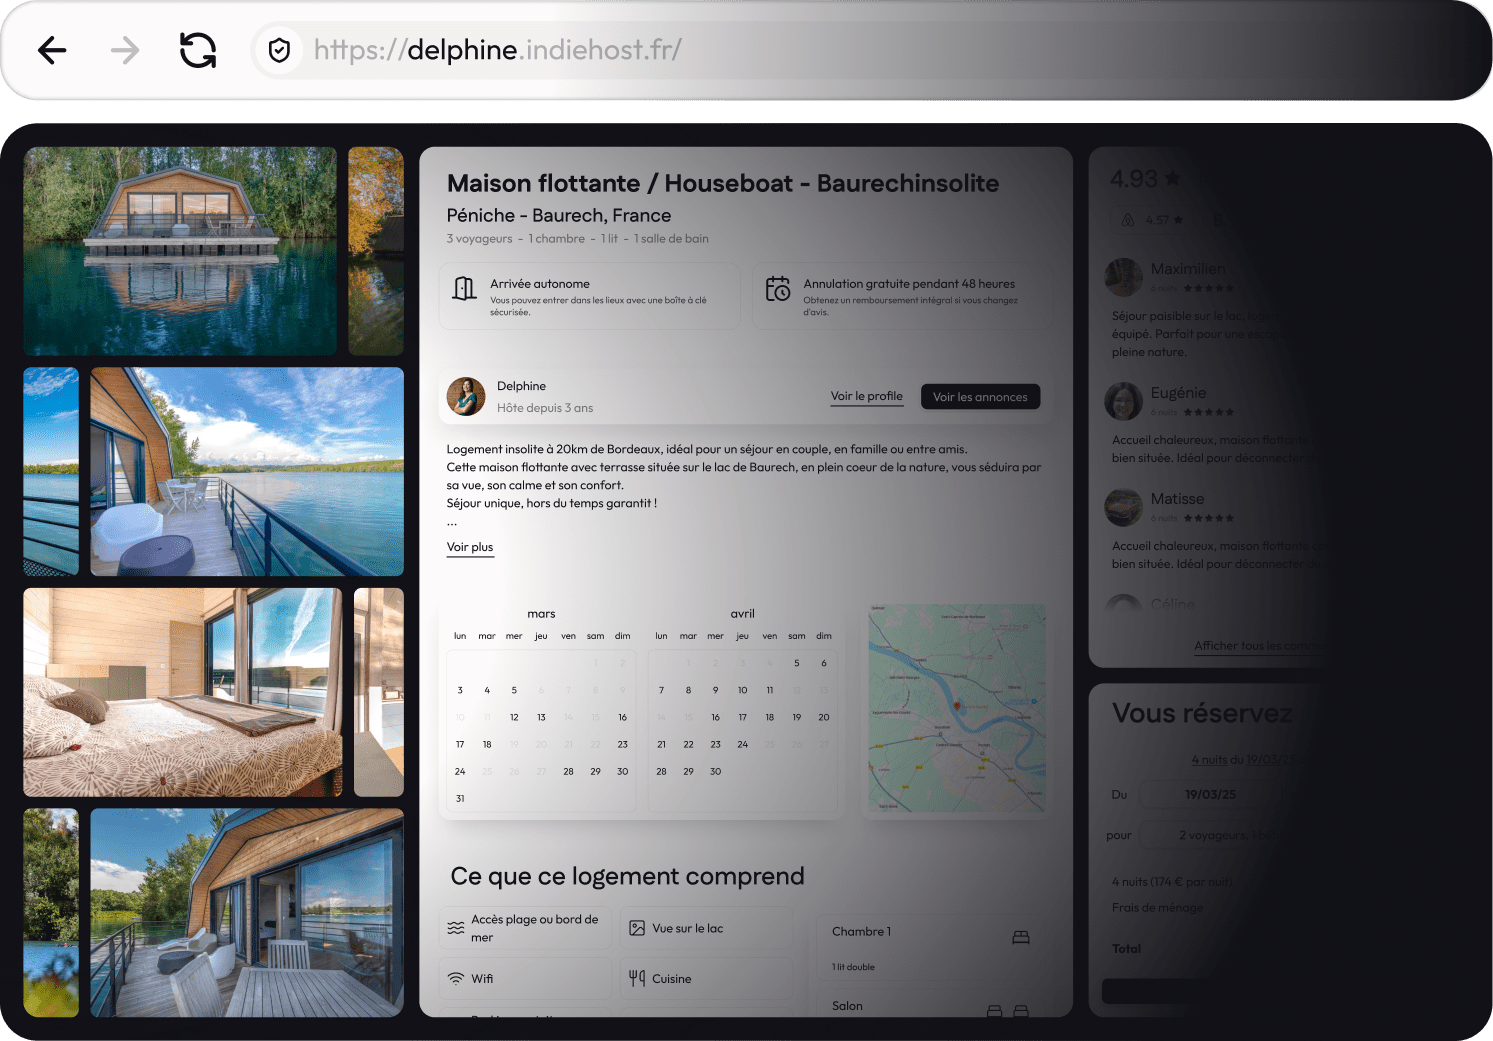
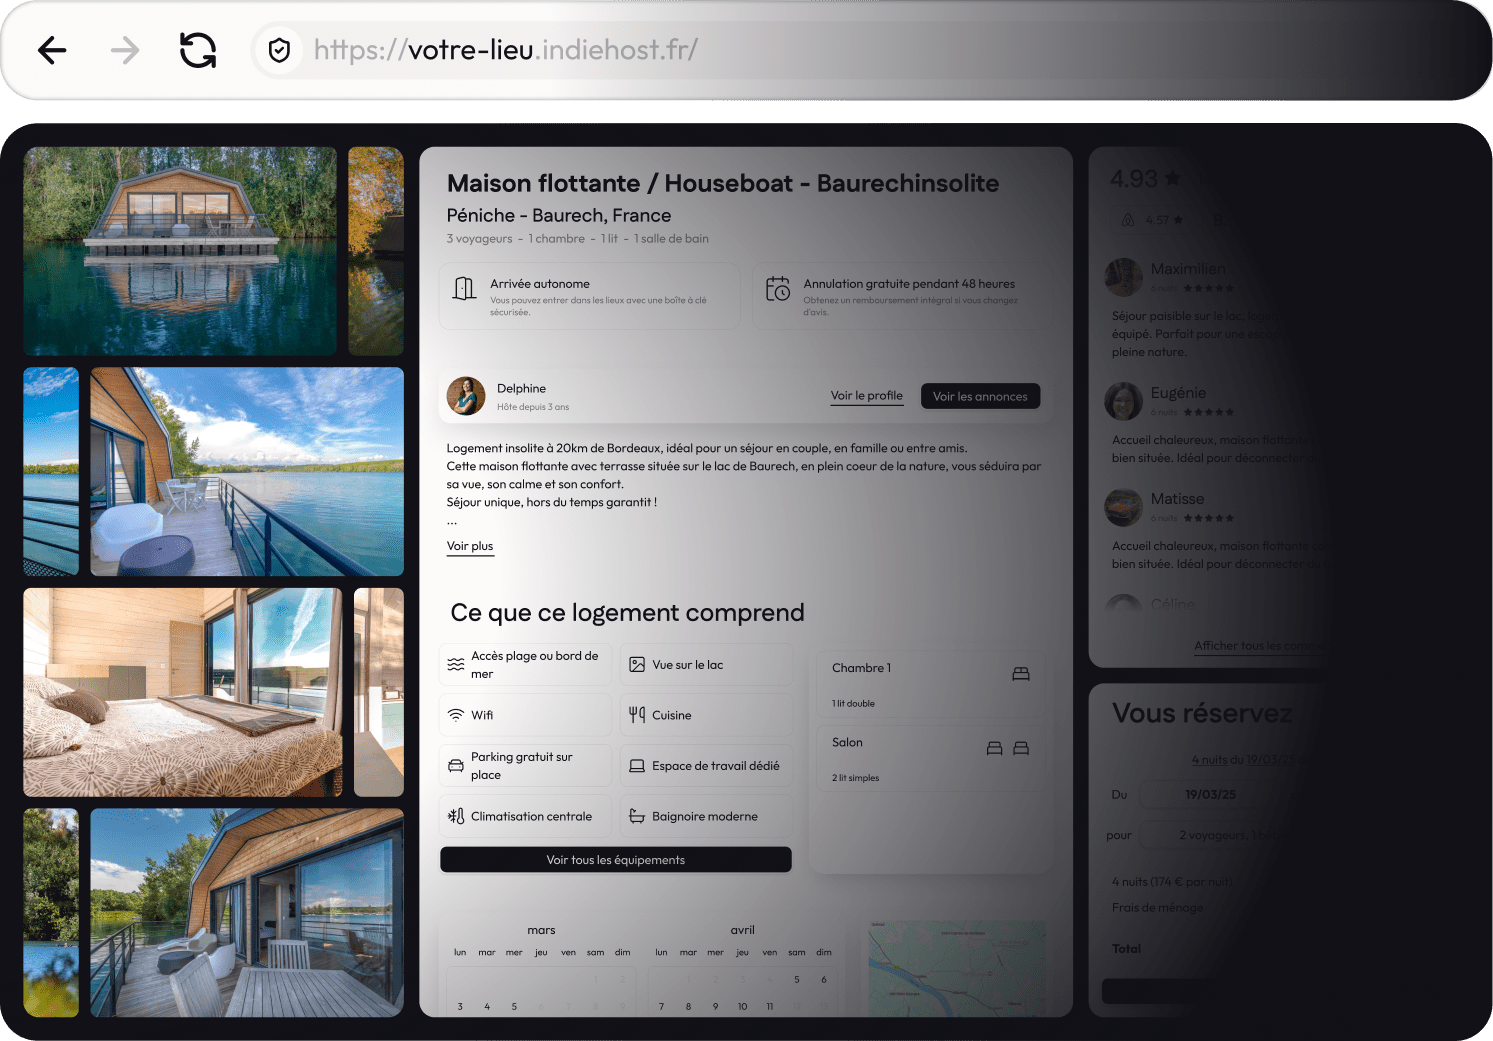
fix: set language attribute for HTML document and update image assets

diff --git a/index.html b/index.html
@@ -1,7 +1,7 @@
 <!-- File: index.html -->
 
 <!doctype html>
-<html lang="">
+<html lang="fr_FR">
   <head>
     <meta charset="UTF-8" />
     <!-- Google Tag Manager -->
